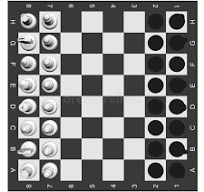
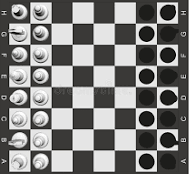
clasificacion de lineas por kmeas

diff --git a/cheese/math_processing.py b/cheese/math_processing.py
@@ -1,5 +1,5 @@
 import numpy as np
-from sklearn.cluster import DBSCAN 
+from sklearn.cluster import KMeans
 import matplotlib.pyplot as plt
 
 
@@ -14,6 +14,24 @@ def classify_polar_lines(lines, angle_threshold):
             elif abs(theta - np.pi/2) < angle_threshold:
                 vertical_lines.append(line)
     return vertical_lines, horizontal_lines
+
+def classify_vertical_lines(lines, angle_threshold):
+    horizontal_lines = []
+
+    for line in lines:
+        for rho, theta in line:
+            if abs(theta - 0) < angle_threshold or abs(theta - np.pi) < angle_threshold:
+                horizontal_lines.append(line)
+    return horizontal_lines
+
+def classify_horizontal_lines(lines, angle_threshold):
+    vertical_lines = []
+
+    for line in lines:
+        for rho, theta in line:
+            if abs(theta - np.pi/2) < angle_threshold:
+                vertical_lines.append(line)
+    return vertical_lines
 
 def line_distance(line1, line2):
     rtho1, theta1 = line1
@@ -151,74 +169,118 @@ def point_into_cell(point, cell):
         return True
     return False
 
+def degree_to_radian(degree):
+    return degree * np.pi / 180
+
+def radian_to_degree(radian):
+    return radian * 180 / np.pi
+
 def middle_point_line(line):
     x1, y1, x2, y2 = line
     return (x1 + x2) // 2, (y1 + y2) // 2
 
-def cluster_and_average_lines(lines, distance_threshold, angle_threshold):
-    """
-    Agrupa líneas cercanas usando DBSCAN y promedia las líneas en cada cluster.
+def cluster_and_lines(lines, n_clusters):
+    middle_points = [middle_point_line(line) for line in lines]
+    X = np.array(middle_points)
     
-    Args:
-        lines (list): Lista de líneas en formato [(rho, theta)].
-        distance_threshold (float): Máxima distancia para considerar líneas cercanas (rho).
-        angle_threshold (float): Máxima diferencia de ángulo (en radianes) para agrupar líneas.
+    # Aplicar K-Means con el número especificado de clusters
+    kmeans = KMeans(n_clusters=n_clusters, random_state=0).fit(X)
     
-    Returns:
-        list: Lista de líneas promediadas después de agruparlas.
-    """
+    labels = kmeans.labels_
+    centroids = kmeans.cluster_centers_
     
-    #lines = np.array(lines)
+    print('Number of clusters: %d' % n_clusters)
+    colors = [plt.cm.Spectral(each) for each in np.linspace(0, 1, n_clusters)]
     
-    # Convertir las líneas a una matriz para DBSCAN
-    lines_array = []
-    for line in lines:
-        rho, theta = line[0]
-        lines_array.append([rho, theta])
-        print(rho)
-    
-    lines_array = np.array(lines_array)
-    
-    if lines_array.ndim != 2 or lines_array.shape[1] != 2:
-        raise ValueError("Expected 2D array with shape (n_samples, 2)")
-
-    # Ajustar los parámetros de DBSCAN
-    eps = np.sqrt(distance_threshold**2 + angle_threshold**2)  # Radio de agrupamiento
-    clustering = DBSCAN(eps=eps, min_samples=1).fit(lines_array)
-    
-    
-    # Agrupar y promediar líneas
-    averaged_lines = []
-    for cluster_id in np.unique(clustering.labels_):
-        # Filtrar líneas del cluster actual
-        cluster_lines = lines_array[clustering.labels_ == cluster_id]
+    for i in range(n_clusters):
+        color = colors[i]
+        cluster = X[labels == i]
+        for x, y in cluster:
+            plt.scatter(x, y, color=color)
         
-        # Calcular el promedio de rho y theta
-        avg_rho = np.mean(cluster_lines[:, 0])
-        avg_theta = np.mean(cluster_lines[:, 1])
-        
-        # Agregar línea promedio a la lista
-        averaged_lines.append((avg_rho, avg_theta))
-    #para de array numpy a lista
-    for i in range(len(averaged_lines)):
-        print(averaged_lines[i])
-
-    #mostrar las lineas promediadas con matplot 
-    plt.figure()
-    ax = plt.gca()
-    for line in averaged_lines:
-        rho, theta = line
-        a = np.cos(theta)
-        b = np.sin(theta)
-        x0 = a * rho
-        y0 = b * rho
-        x1 = int(x0 + 1000 * (-b))
-        y1 = int(y0 + 1000 * (a))
-        x2 = int(x0 - 1000 * (-b))
-        y2 = int(y0 - 1000 * (a))
-        ax.plot([x1, x2], [y1, y2], 'r')
-
-    plt.show()
+        # Dibujar el centroide del cluster
+        centroid = centroids[i]
+        plt.scatter(centroid[0], centroid[1], color='black', marker='x', s=100, label=f'Centroid {i+1}')
     
+    plt.legend()
+    plt.show()  
 
-    return  averaged_lines
+    return kmeans
+
+
+def cluster_and_lines_1(lines, n_clusters):
+    middle_points = [middle_point_line(line) for line in lines]
+    X = np.array(middle_points)
+    
+    # Aplicar K-Means con el número especificado de clusters
+    kmeans = KMeans(n_clusters=n_clusters, random_state=0).fit(X)
+    
+    labels = kmeans.labels_
+    centroids = kmeans.cluster_centers_
+    
+    print('Number of clusters: %d' % n_clusters)
+    colors = [plt.cm.Spectral(each) for each in np.linspace(0, 1, n_clusters)]
+    
+    for i in range(n_clusters):
+        color = colors[i]
+        cluster = X[labels == i]
+        
+        # Imprimir el cluster y los puntos que pertenecen a él
+        print(f'Cluster {i+1}:')
+        for x, y in cluster:
+            print(f'Point: ({x}, {y})')
+            plt.scatter(x, y, color=color)
+        
+        # Dibujar el centroide del cluster
+        centroid = centroids[i]
+        plt.scatter(centroid[0], centroid[1], color='black', marker='x', s=100, label=f'Centroid {i+1}')
+    
+    plt.legend()
+    plt.show()  
+    
+    return kmeans
+
+def cluster_and_lines_2(lines, n_clusters):
+    middle_points = [middle_point_line(line) for line in lines]
+    X = np.array(middle_points)
+    
+    # Aplicar K-Means con el número especificado de clusters
+    kmeans = KMeans(n_clusters=n_clusters, random_state=0).fit(X)
+    
+    labels = kmeans.labels_
+    centroids = kmeans.cluster_centers_
+    
+    print('Number of clusters: %d' % n_clusters)
+    colors = [plt.cm.Spectral(each) for each in np.linspace(0, 1, n_clusters)]
+    
+    representative_lines = []
+    
+    for i in range(n_clusters):
+        color = colors[i]
+        cluster = X[labels == i]
+        
+        # Imprimir el cluster y los puntos que pertenecen a él
+        print(f'Cluster {i+1}:')
+        for x, y in cluster:
+            print(f'Point: ({x}, {y})')
+            plt.scatter(x, y, color=color)
+        
+        # Dibujar el centroide del cluster
+        centroid = centroids[i]
+        plt.scatter(centroid[0], centroid[1], color='black', marker='x', s=100, label=f'Centroid {i+1}')
+        
+        # Encontrar la línea más cercana al centroide
+        distances = [np.linalg.norm(np.array(middle_point_line(line)) - centroid) for line in lines]
+        closest_line_index = np.argmin(distances)
+        representative_lines.append(lines[closest_line_index])
+    
+    plt.legend()
+    plt.show()  
+
+    print("ssssssssssssssssssssssssss")
+    for line in representative_lines:
+        print(line)
+    
+    representative_lines = [list(line) for line in representative_lines]
+
+    return representative_lines

diff --git a/main_model.py b/main_model.py
@@ -4,9 +4,11 @@ import cv2 as cv
 def main():
     
     #image = che.open_image('imgtemp/tablaR2.jpg')
-    image = che.open_image('img/tablaRea.jpg')
+    #image = che.open_image('img/tabla2.jpg')
+    #image = che.open_image('img/tablaRea.jpg')
     #image = che.open_image('img/tablaRea1.jpg')
     #image = che.open_image('img/tablaRea2.jpg')
+    image = che.open_image('img/tableroA.png')
     #redimensionar a 560 560    
     image = cv.resize(image, (560, 560))
 
@@ -15,56 +17,44 @@ def main():
 
     che.show_image_wait('gray', gray_image)
 
-    edeges = che.detect_edges(gray_image, 40, 140, 3)
+    edeges = che.detect_edges(gray_image, 1, 150, 3)
     che.show_image_wait('edges', edeges)
 
-    lines = che.detect_lines(edeges, 1, che.np.pi/180, 100, 0, che.np.pi)
+    lines = che.detect_lines(edeges, 1, che.np.pi/180, 120, 0, che.np.pi)
+    
+    horizontal_lines = che.classify_horizontal_lines(lines, che.degree_to_radian(20))
+    vertical_lines = che.classify_vertical_lines(lines, che.np.pi/4)
 
-    horizontal_lines, vertical_lines = che.classify_polar_lines(lines, che.np.pi/4)
-    
-    print(f'horizontal lines: {len(horizontal_lines)}')
-    print(f'vertical lines: {len(vertical_lines)}')
-    print(f'angle: {che.np.pi/4}')
-    
+    print(len(horizontal_lines))
+    print(len(vertical_lines))
 
     #exit()
-    vertical_lines = che.filter_close_lines(vertical_lines, 60, che.np.pi/4)
-    horizontal_lines = che.filter_close_lines(horizontal_lines, 60, che.np.pi/4)
-
-    for line in vertical_lines:
-        
-        linea_cartesiana = che.polar_to_cartesian(line, 791)
-        punto_medio = che.middle_point_line(linea_cartesiana)
-        image = che.draw_line(image, linea_cartesiana, (0, 0, 255), 2)
-        
-        che.show_image_wait_time('lines', image, 1000)
-
-        for rho, theta in line:
-            print(f'rho: {rho}, theta: {theta}')
-            print(linea_cartesiana)
-            print(punto_medio)
-
-    che.show_image_wait('lines', image)
+    
+    #vertical_lines = che.filter_close_lines(vertical_lines, 60, che.np.pi/4)
+    #horizontal_lines = che.filter_close_lines(horizontal_lines, 60, che.np.pi/4)
+    
     height, width = image.shape[:2]
     max_length = int(che.np.hypot(width, height))
-
-    print(f'max_length: {max_length}')
-    exit()
 
     cartesian_vertical_lines = [che.polar_to_cartesian(line, max_length) for line in vertical_lines]
     cartesian_horizontal_lines = [che.polar_to_cartesian(line, max_length) for line in horizontal_lines]
 
+    cartesian_vertical_lines = che.cluster_and_lines_2(cartesian_vertical_lines, 9)
+    cartesian_horizontal_lines = che.cluster_and_lines_2(cartesian_horizontal_lines, 9)
+
     print(len(cartesian_vertical_lines))
     print(len(cartesian_horizontal_lines))
 
+    assert len(cartesian_vertical_lines) == 9
+    assert len(cartesian_horizontal_lines) == 9
+
     for line in cartesian_vertical_lines:
         image = che.draw_line(image, line, (0, 0, 255), 2)
-        #che.show_image_wait_time('lines', image, 1000)
-
+        che.show_image_wait_time('lines', image, 1000)
 
     for line in cartesian_horizontal_lines:
         image = che.draw_line(image, line, (0, 0, 255), 2)
-        #che.show_image_wait_time('lines', image, 1000)
+        che.show_image_wait_time('lines', image, 1000)
 
     che.show_image_wait('lines', image)
 
@@ -86,7 +76,7 @@ def main():
     i=0
     for point in intersection_points:
         imgae = che.draw_text(image, str(i), point, 0.5, (255, 0, 0), 2)
-        #che.show_image_wait_time('points', image, 900)
+        che.show_image_wait_time('points', image, 900)
         i+=1
 
     che.show_image_wait('points', image)
@@ -114,7 +104,7 @@ def main():
             print(po1.shape[0])
             print(po1)
 
-        #che.show_image_wait_time('points', image, 900)
+        che.show_image_wait_time('points', image, 900)
 
     che.show_image_wait('points', image)
     
@@ -130,8 +120,6 @@ def main():
     for chess_cell in chess_cells:
         print(chess_cell, chess_cells[chess_cell])
     
-    che.destroy_windows()
-    
     #dranw cells by chess coordinates
     coodinate = 'h1'
     cell = chess_cells[coodinate]
@@ -141,5 +129,12 @@ def main():
 
     che.show_image_wait('points', image)
 
+    new_image = che.extract_cell(image, cell)
+
+    che.show_image_wait('pointsq', new_image)
+
 if __name__ == '__main__':
     main()  
+
+
+#descriptor de la imagen SIFT

diff --git a/cheese/img_processing.py b/cheese/img_processing.py
@@ -1,7 +1,6 @@
 import cv2 as cv
 import numpy as np
 
-
 def open_image(path):
     return cv.imread(path)
 
@@ -109,8 +108,13 @@ def save_image(path, image):
         cv.imwrite(path, image)
     else:
         print("No se pudo guardar la imagen")
-        
-        
+          
+def extract_roi(image, roi_coords):
+    x1, y1, x2, y2 = map(int, [roi_coords["x1"], roi_coords["y1"], roi_coords["x2"], roi_coords["y2"]])
+    return image[min(y1, y2):max(y1, y2), min(x1, x2):max(x1, x2)]
 
 
-    
+def extract_cell(image, cell):
+    x1, y1 = cell[0]
+    x3, y3 = cell[2]
+    return image[y1:y3, x1:x3]
